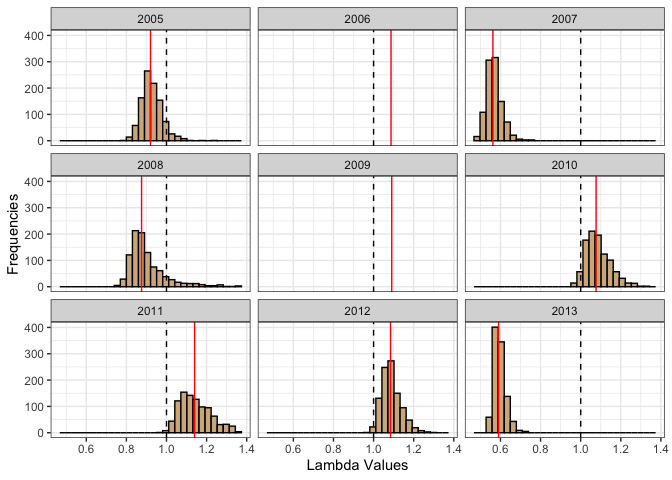
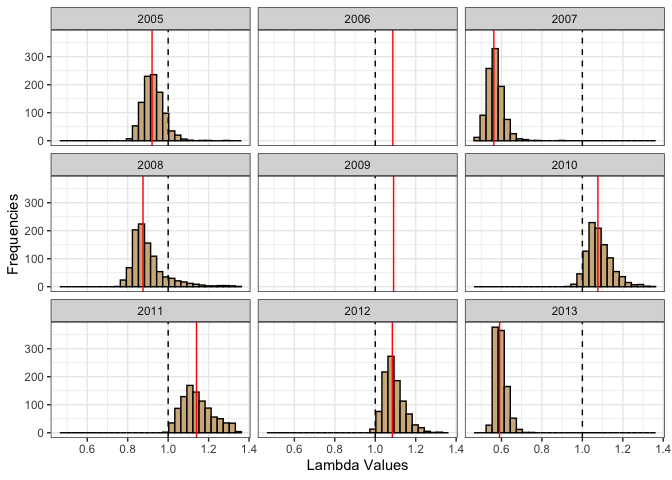
styler

diff --git a/README.md b/README.md
@@ -39,13 +39,13 @@ library(bbouretro)
 library(bboudata)
 
 # generate recruitment estimate for each year
-recruitment_est <- 
+recruitment_est <-
   bbr_recruitment(
-    bbourecruit_c, 
-    pFemales = 0.65, 
-    sexratio = 0.5, 
+    bbourecruit_c,
+    pFemales = 0.65,
+    sexratio = 0.5,
     variance = "binomial"
-)
+  )
 bbr_plot_recruitment(recruitment_est)
 ```
 
@@ -54,10 +54,10 @@ bbr_plot_recruitment(recruitment_est)
 ``` r
 
 # generate survival estimate for each year
-survival_est <- 
+survival_est <-
   bbr_km_survival(
     bbousurv_c,
-    MortType = "Total", 
+    MortType = "Total",
     variance = "Pollock"
   )
 bbr_plot_survival(survival_est)
@@ -74,15 +74,15 @@ summary
 #> # A tibble: 9 × 13
 #>   PopulationName  Year     S     R Lambda SE_Lambda Lambda_LCL Lambda_UCL
 #>   <chr>          <int> <dbl> <dbl>  <dbl>     <dbl>      <dbl>      <dbl>
-#> 1 C               2005 0.832 0.096  0.92      0.052      0.841      1.05 
+#> 1 C               2005 0.832 0.096  0.92      0.052      0.838      1.04 
 #> 2 C               2006 1     0.08   1.09     NA         NA         NA    
-#> 3 C               2007 0.524 0.068  0.562     0.039      0.505      0.657
-#> 4 C               2008 0.824 0.059  0.876     0.121      0.796      1.25 
+#> 3 C               2007 0.524 0.068  0.562     0.04       0.5        0.651
+#> 4 C               2008 0.824 0.059  0.876     0.151      0.793      1.23 
 #> 5 C               2009 1     0.083  1.09     NA         NA         NA    
-#> 6 C               2010 0.926 0.14   1.08      0.062      0.99       1.23 
-#> 7 C               2011 0.96  0.158  1.14      0.107      1.02       1.43 
-#> 8 C               2012 0.963 0.112  1.08      0.049      1.01       1.20 
-#> 9 C               2013 0.512 0.133  0.591     0.029      0.553      0.664
+#> 6 C               2010 0.926 0.14   1.08      0.062      0.987      1.23 
+#> 7 C               2011 0.96  0.158  1.14      0.099      1.03       1.42 
+#> 8 C               2012 0.963 0.112  1.08      0.051      1.01       1.22 
+#> 9 C               2013 0.512 0.133  0.591     0.029      0.554      0.665
 #> # ℹ 5 more variables: Prop_LGT1 <dbl>, meanSimSurv <dbl>, meanRsim <dbl>,
 #> #   meanSimLambda <dbl>, medianSimLambda <dbl>
 bbr_plot_lambda(lambda_est)
